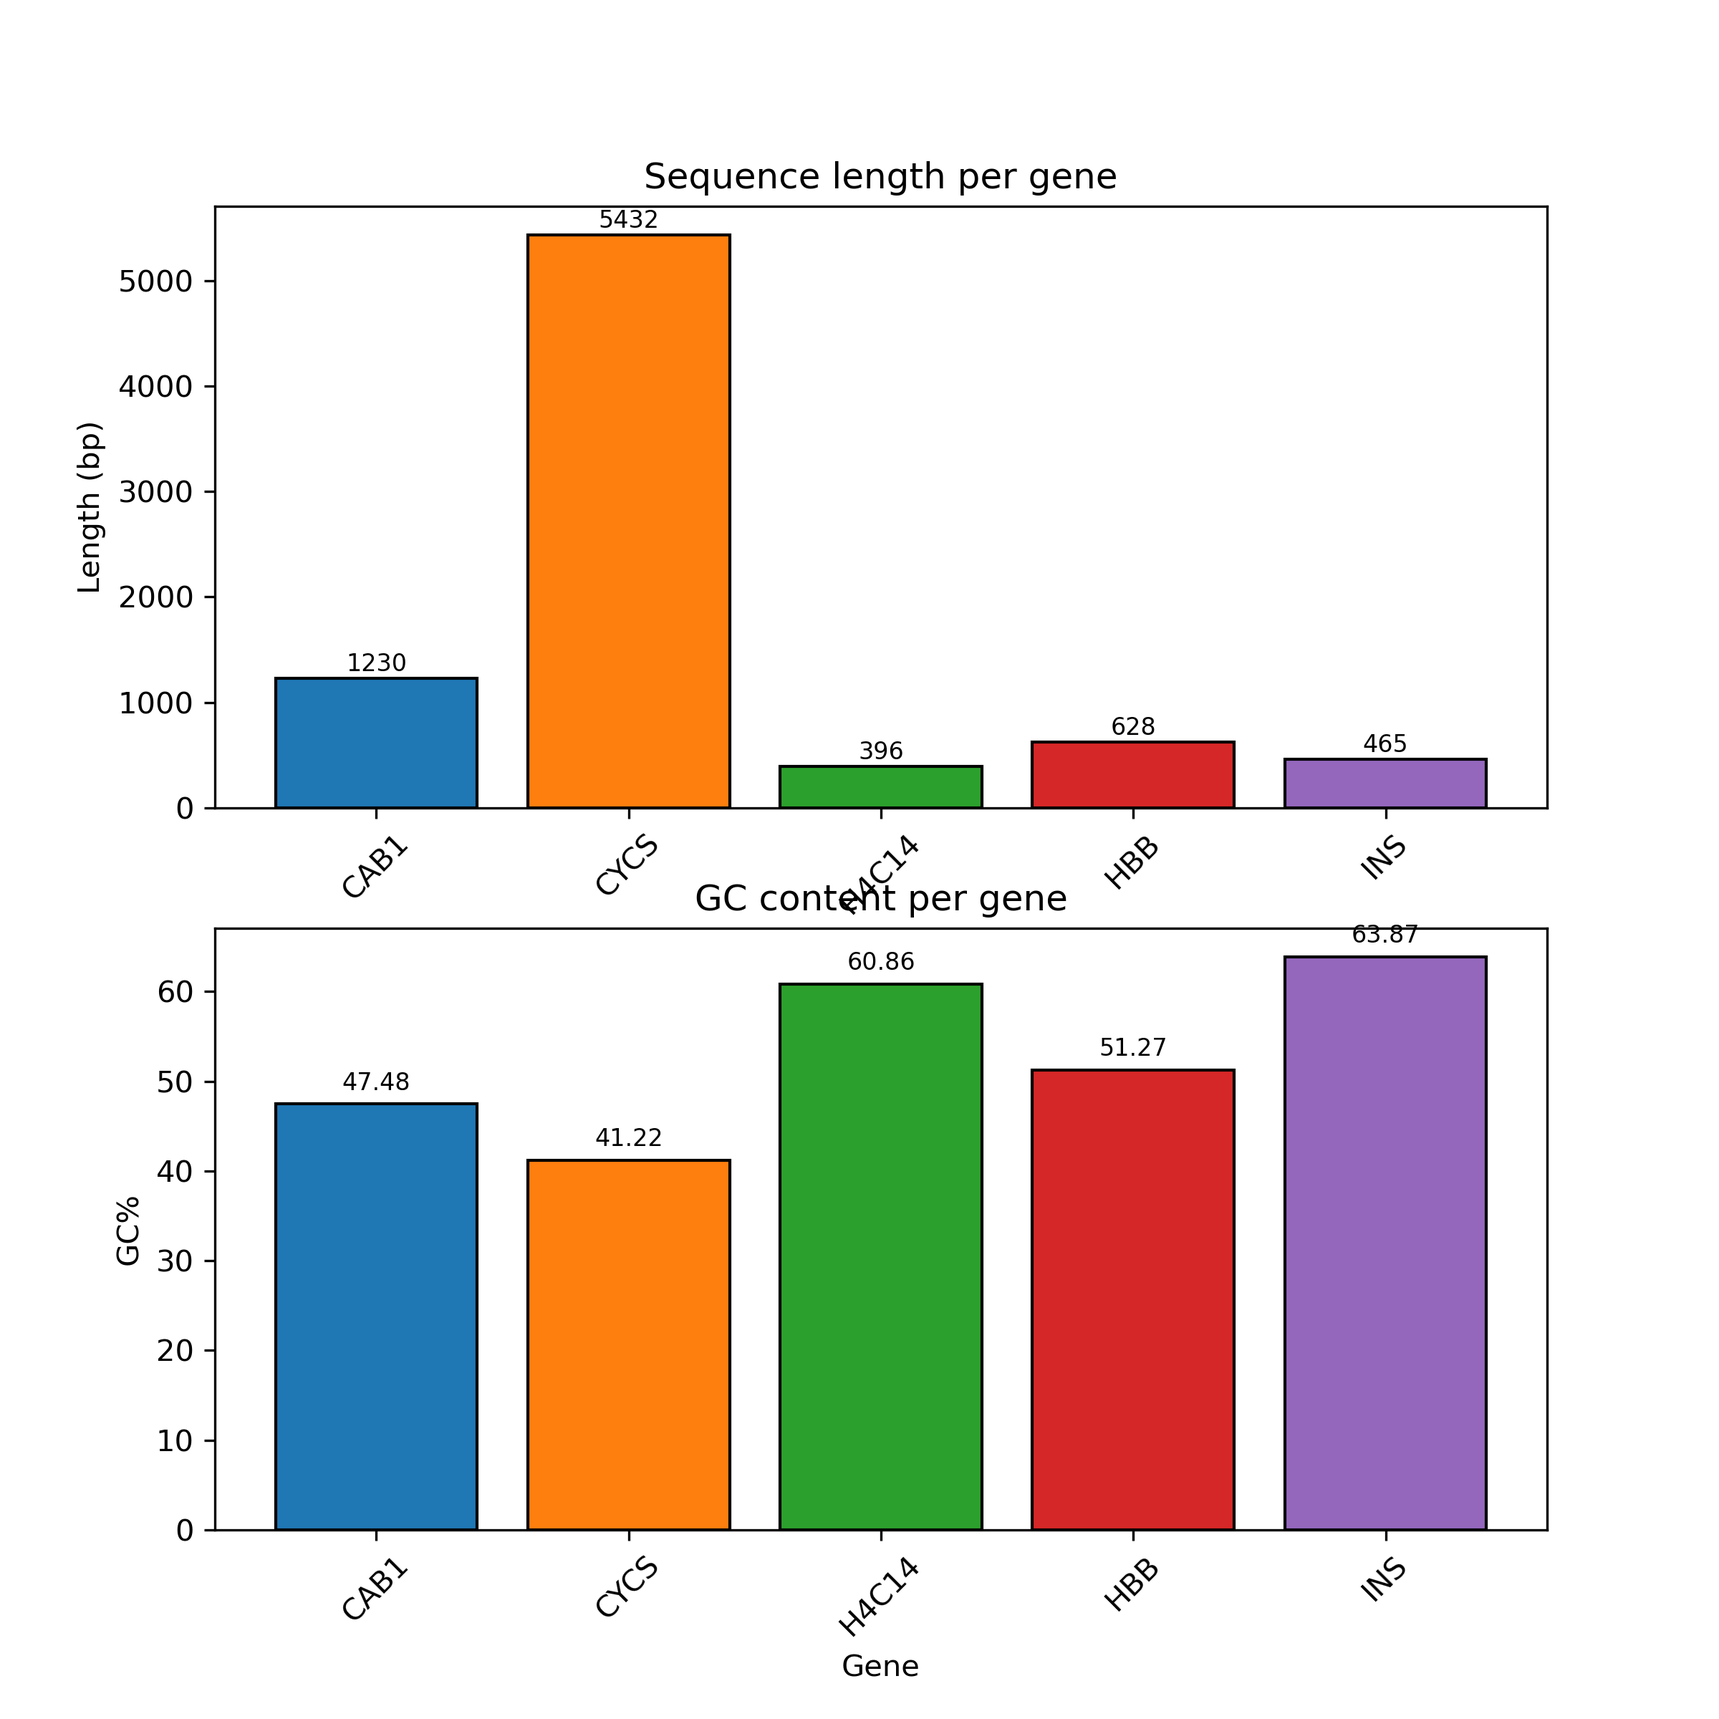
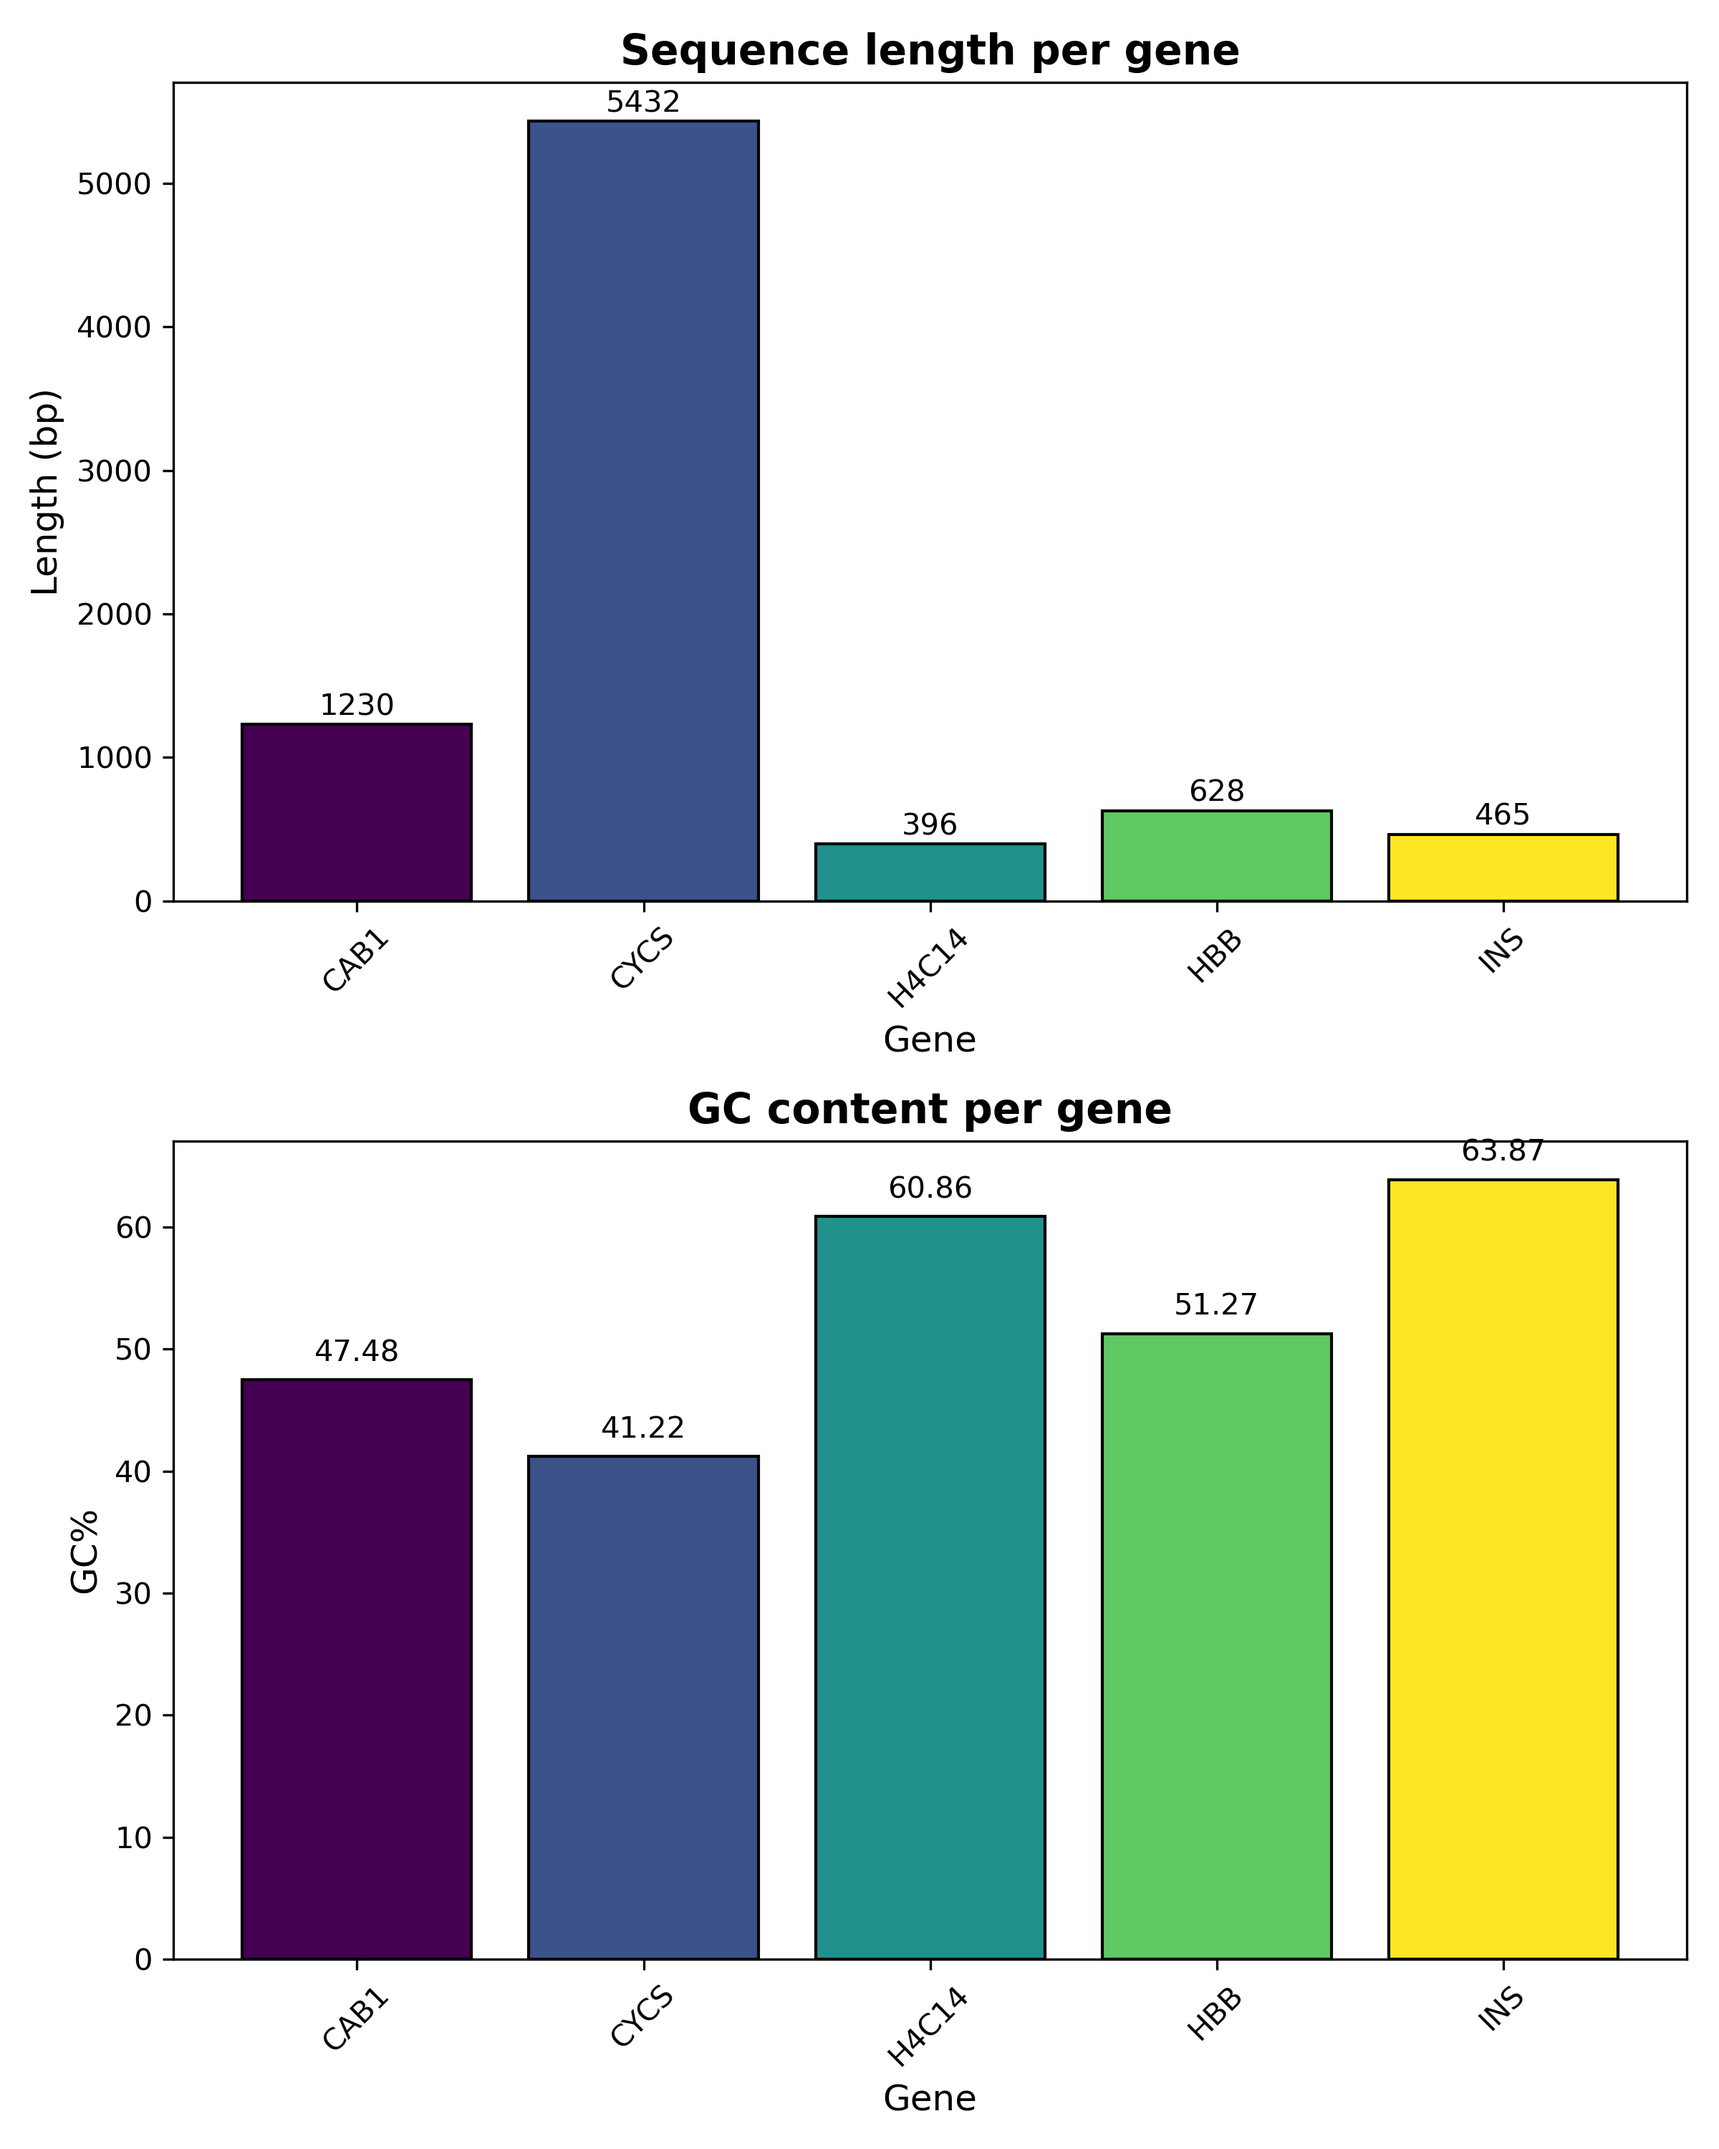
actualizaciones

diff --git a/fasta_profiler.py b/fasta_profiler.py
@@ -4,6 +4,7 @@ from Bio import SeqIO
 import pandas as pd
 import matplotlib.pyplot as plt
 import matplotlib.cm as cm
+import numpy as np
 
 
 # Paths
@@ -85,47 +86,42 @@ def analyze_sequences(fasta_file):
     return pd.DataFrame(stats_rows), pd.DataFrame(meta_rows)
 
 def plot_summary(stats_df, results_dir):
-    """Create a vertical combined figure with sequence length and GC% per gene, with consistent colors and legend."""
-    # Paleta de colores (tab10 tiene hasta 10 distintos)
-    colors = cm.tab10.colors
-    gene_colors = {gene: colors[i % len(colors)] for i, gene in enumerate(stats_df["Name"])}
+    """Create a vertical combined figure with sequence length and GC% per gene."""
+    if stats_df.empty:
+        print("Warning: No data to plot.")
+        return
 
-    fig, axes = plt.subplots(2, 1, figsize=(8, 8))
+    # Use a consistent, accessible color palette
+    colors = plt.cm.get_cmap("viridis")(np.linspace(0, 1, len(stats_df)))
+
+    fig, axes = plt.subplots(2, 1, figsize=(8, 10))
 
     # --- Panel A: Length per gene ---
-    bars = axes[0].bar(stats_df["Name"],
-                       stats_df["Length_bp"],
-                       color=[gene_colors[name] for name in stats_df["Name"]],
-                       edgecolor="black")
-    axes[0].set_xlabel("Gene")
-    axes[0].set_ylabel("Length (bp)")
-    axes[0].set_title("Sequence length per gene")
-    axes[0].tick_params(axis="x", rotation=45)
-
-    for bar in bars:
+    ax_length = axes[0]
+    bars1 = ax_length.bar(stats_df["Name"], stats_df["Length_bp"], color=colors, edgecolor="black")
+    ax_length.set_xlabel("Gene", fontsize=12)
+    ax_length.set_ylabel("Length (bp)", fontsize=12)
+    ax_length.set_title("Sequence length per gene", fontsize=14, fontweight="bold")
+    ax_length.tick_params(axis="x", rotation=45)
+    for bar in bars1:
         height = bar.get_height()
-        axes[0].text(bar.get_x() + bar.get_width()/2, height + 20,
-                     f"{height}", ha="center", va="bottom", fontsize=8)
+        ax_length.text(bar.get_x() + bar.get_width()/2, height + 20, f"{int(height)}", ha="center", va="bottom", fontsize=10)
 
     # --- Panel B: GC% per gene ---
-    bars2 = axes[1].bar(stats_df["Name"],
-                        stats_df["GC_percent"],
-                        color=[gene_colors[name] for name in stats_df["Name"]],
-                        edgecolor="black")
-    axes[1].set_xlabel("Gene")
-    axes[1].set_ylabel("GC%")
-    axes[1].set_title("GC content per gene")
-    axes[1].tick_params(axis="x", rotation=45)
-
+    ax_gc = axes[1]
+    bars2 = ax_gc.bar(stats_df["Name"], stats_df["GC_percent"], color=colors, edgecolor="black")
+    ax_gc.set_xlabel("Gene", fontsize=12)
+    ax_gc.set_ylabel("GC%", fontsize=12)
+    ax_gc.set_title("GC content per gene", fontsize=14, fontweight="bold")
+    ax_gc.tick_params(axis="x", rotation=45)
     for bar in bars2:
         height = bar.get_height()
-        axes[1].text(bar.get_x() + bar.get_width()/2, height + 1,
-                     f"{height:.2f}", ha="center", va="bottom", fontsize=8)
+        ax_gc.text(bar.get_x() + bar.get_width()/2, height + 1, f"{height:.2f}", ha="center", va="bottom", fontsize=10)
 
-
+    fig.tight_layout()
     outfile = os.path.join(results_dir, "summary_plots.png")
     plt.savefig(outfile, dpi=300)
-    plt.close()
+    plt.close(fig)
     print(f"Combined plot saved to {outfile}")
 
 def main():

diff --git a/README.md b/README.md
@@ -1,5 +1,11 @@
 # 03 – GC Scanner: FASTA Composition Profiling (Beginner)
 
+A small, reproducible exercise that:
+1) merges multiple FASTA files into a single **multifasta**,
+2) computes nucleotide counts and GC content,
+3) exports tidy CSV tables, and
+4) draws quick QC plots (length & GC%).
+
 ---
 
 ## 🎯 Learning Objectives  
@@ -18,7 +24,7 @@
 
 ## ⚙ Prerequisites
 - Python ≥ 3.9  
-- Packages: [Biopython](https://biopython.org/), [pandas](https://pandas.pydata.org/)  
+- Packages: [Biopython](https://biopython.org/), [pandas](https://pandas.pydata.org/),   [matplotlib](https://matplotlib.org/stable/)
 
 Install dependencies:
 ```bash
@@ -36,8 +42,56 @@ Example mRNA sequences (downloadable from NCBI) that you can use to test the pip
 | INS    | NM_000207.3      | *Homo sapiens*        | Glucose regulation hormone               | [FASTA](https://www.ncbi.nlm.nih.gov/nuccore/NM_000207.3?report=fasta) |
 | CAB1   | NM_102733.3      | *Arabidopsis thaliana*| Photosynthesis, pigment-binding          | [FASTA](https://www.ncbi.nlm.nih.gov/nuccore/NM_102733.3?report=fasta) |
 
-Download each sequence from NCBI and save them as individual FASTA files in the `data/` folder.  
-You will combine them into a single **multifasta file** during the exercise (`data/reference_sequences.fasta`), using Biopython.  
 
 **Note:** These sequences are biologically valid and error-free.  
 They vary in length and function — useful for testing your GC scanner and visualizations.
+
+## 🚀 Usage
+
+1.  **Clone the repository:**
+    ```bash
+    git clone [https://github.com/MACHARODRIGO/03-GC-Scanner-FASTA-composition-profiling-genomegym-beginner.git](https://github.com/MACHARODRIGO/03-GC-Scanner-FASTA-composition-profiling-genomegym-beginner.git)
+    cd 03-GC-Scanner-FASTA-composition-profiling-genomegym-beginner
+    ```
+2.  **Download prerequisite data:**
+    - Create a directory named `data/`.
+    - Download the example FASTA files from the links in the "Reference Sequences" table and save them inside the `data/` folder.
+    - **Note:** Ensure the filenames end with `.fasta` (e.g., `HBB.fasta`).
+3.  **Run the script:**
+    ```bash
+    python gc_scanner.py
+    ```
+4.  **Explore the results:**
+    - The script will create a `results/` directory containing:
+      - `combined_sequences.fasta`
+      - `sequence_stats.csv`
+      - `metadata.csv`
+      - `summary_plots.png`
+
+## 📊 Example Results
+
+After running the script, the `results/` folder will contain the following files:
+
+### **`sequence_stats.csv` preview**
+```csv
+ID,Name,Length_bp,Count_A,Count_T,Count_C,Count_G,GC_percent
+NM_102733.3,CAB1,1230,316,330,294,290,47.48
+NM_018947.6,CYCS,5432,1548,1645,1030,1209,41.22
+...
+```
+
+### **`metadata.csv` preview**
+```csv
+ID,Name,MoleculeType,Description
+NM_102733.3,CAB1,mRNA,Arabidopsis thaliana chlorophyll A/B binding protein 1
+NM_018947.6,CYCS,mRNA,"Homo sapiens cytochrome c, somatic"
+...
+```
+
+## 💡 Next Steps & Community Challenges
+
+* **Error Handling:** Modify the `analyze_sequences` function to handle sequences with characters other than A, T, C, G (e.g., N for unknown bases). You could print a warning or skip the sequence.
+* **Command-Line Interface:** Use the `argparse` module to make the script more flexible, allowing users to specify input and output directories directly from the command line.
+* **Advanced Visualization:** Add a third subplot to `plot_summary` that shows the A/T ratio or a stacked bar chart of all nucleotide counts.
+* **Batch Processing:** Adapt the script to handle a large number of FASTA files more efficiently, perhaps by using `os.walk` to traverse a directory tree.
+* **Testing:** Write unit tests for the functions, especially `parse_header_fields` and `analyze_sequences`, to ensure they work correctly with different inputs.
